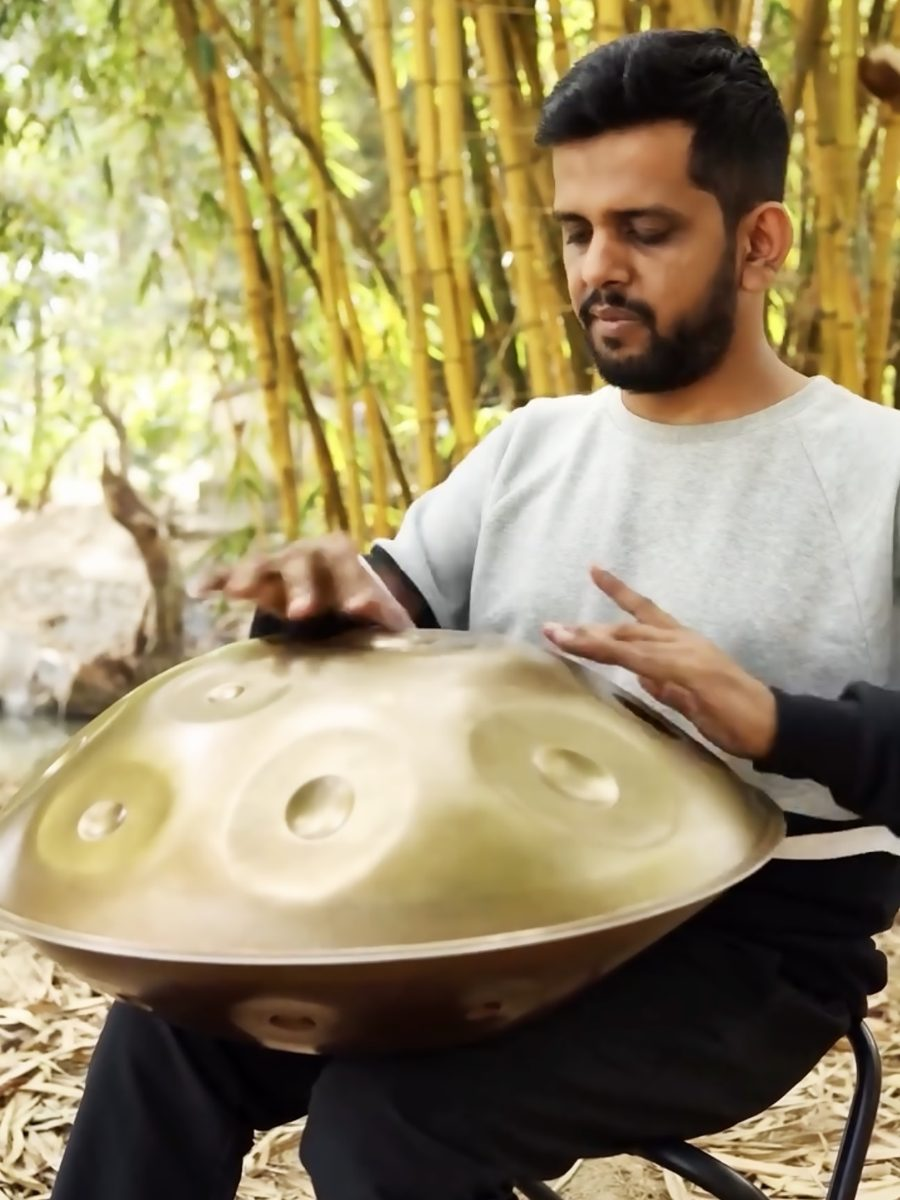
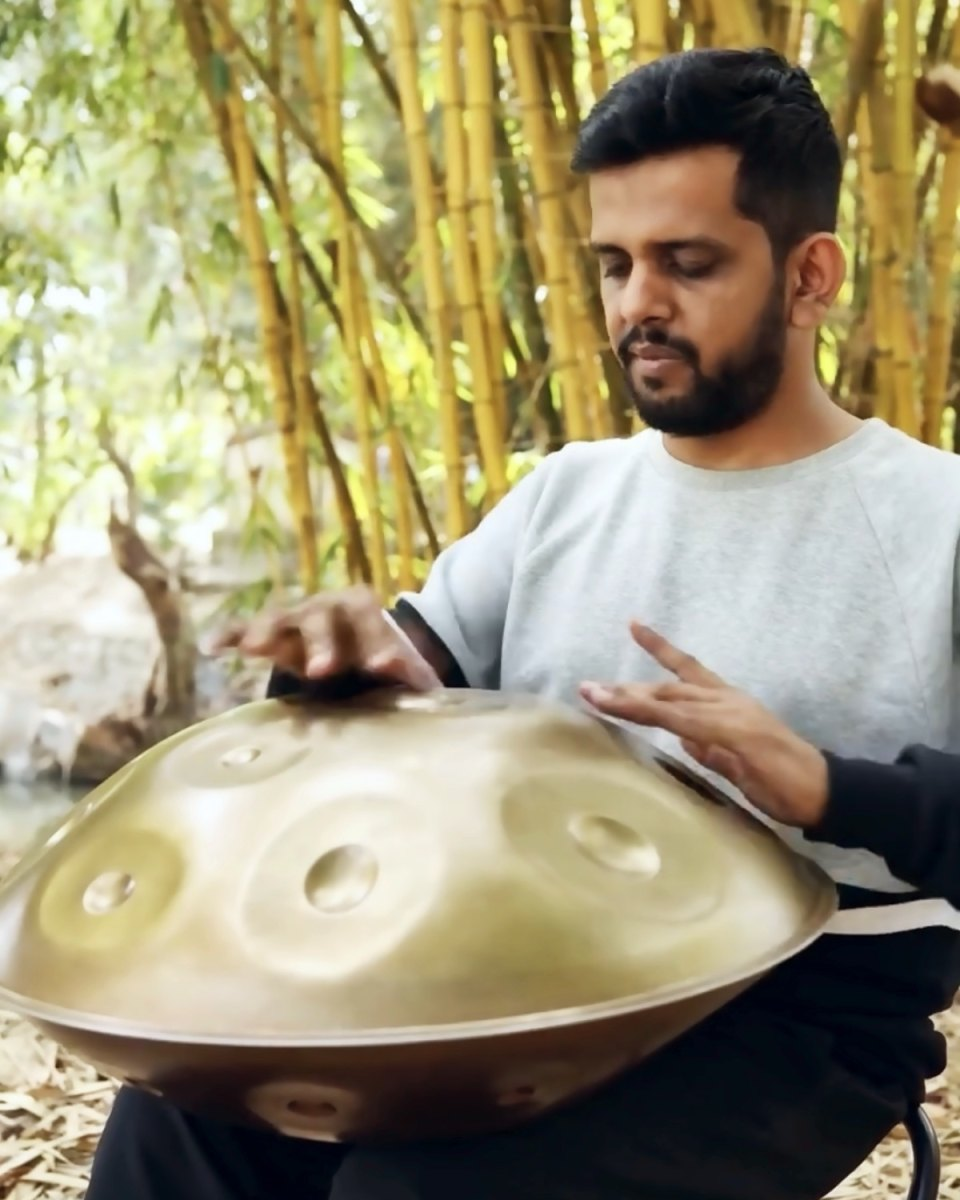
Add files via upload

diff --git a/pages/about.html b/pages/about.html
@@ -93,8 +93,10 @@
 .story-photo.pair { display:grid; grid-template-columns:1fr 1fr; gap:1rem; }
 .story-photo.pair img { aspect-ratio: 3/4; }
 .story-photo.pair.sq img { aspect-ratio: 1/1; }
+.story-photo.trio { display:grid; grid-template-columns:1fr 1fr 1fr; gap:1rem; }
+.story-photo.trio img { aspect-ratio: 4/5; }
 .story-cap { font-size: var(--t-small); color: var(--text-light); margin-top: 0.7rem; letter-spacing: 0.01em; }
-@media (max-width:600px){ .story-photo.pair { gap:0.7rem; } }
+@media (max-width:600px){ .story-photo.pair, .story-photo.trio { gap:0.6rem; } }
 
 /* --- mobile type step --- */
 </style>
@@ -146,7 +148,7 @@
       <h3>How it started</h3>
       <p>Arpit grew up in Uttar Pradesh and was drawn to rhythm long before he found the handpan.</p>
       <p>In 2015, a YouTube video stopped him mid-scroll. David Kuckhermann playing alongside Naghmeh Farahmand on tonbak, two instruments in conversation, the room completely still. That was his first encounter with the handpan. He got one shortly after and hasn't put it down since.</p>
-      <div class="story-photo pair"><img src="../images/arpit-bamboo.jpg" alt="Arpit Pandey playing handpan in a bamboo grove" loading="lazy"/><img src="../images/arpit-bench.jpg" alt="Arpit Pandey playing handpan on a bench" loading="lazy"/></div>
+      <div class="story-photo trio"><img src="../images/arpit-bamboo.jpg" alt="Arpit Pandey playing handpan in a bamboo grove" loading="lazy"/><img src="../images/arpit-forest-front.jpg" alt="Arpit Pandey playing handpan in a forest clearing" loading="lazy"/><img src="../images/arpit-bench.jpg" alt="Arpit Pandey playing handpan on a bench" loading="lazy"/></div>
       <p class="story-cap" style="margin-top:-1.9rem;margin-bottom:2.6rem;">Early years. Most of the learning happened outdoors, wherever there was a quiet corner to sit.</p>
 
       <h3>The roots</h3>
